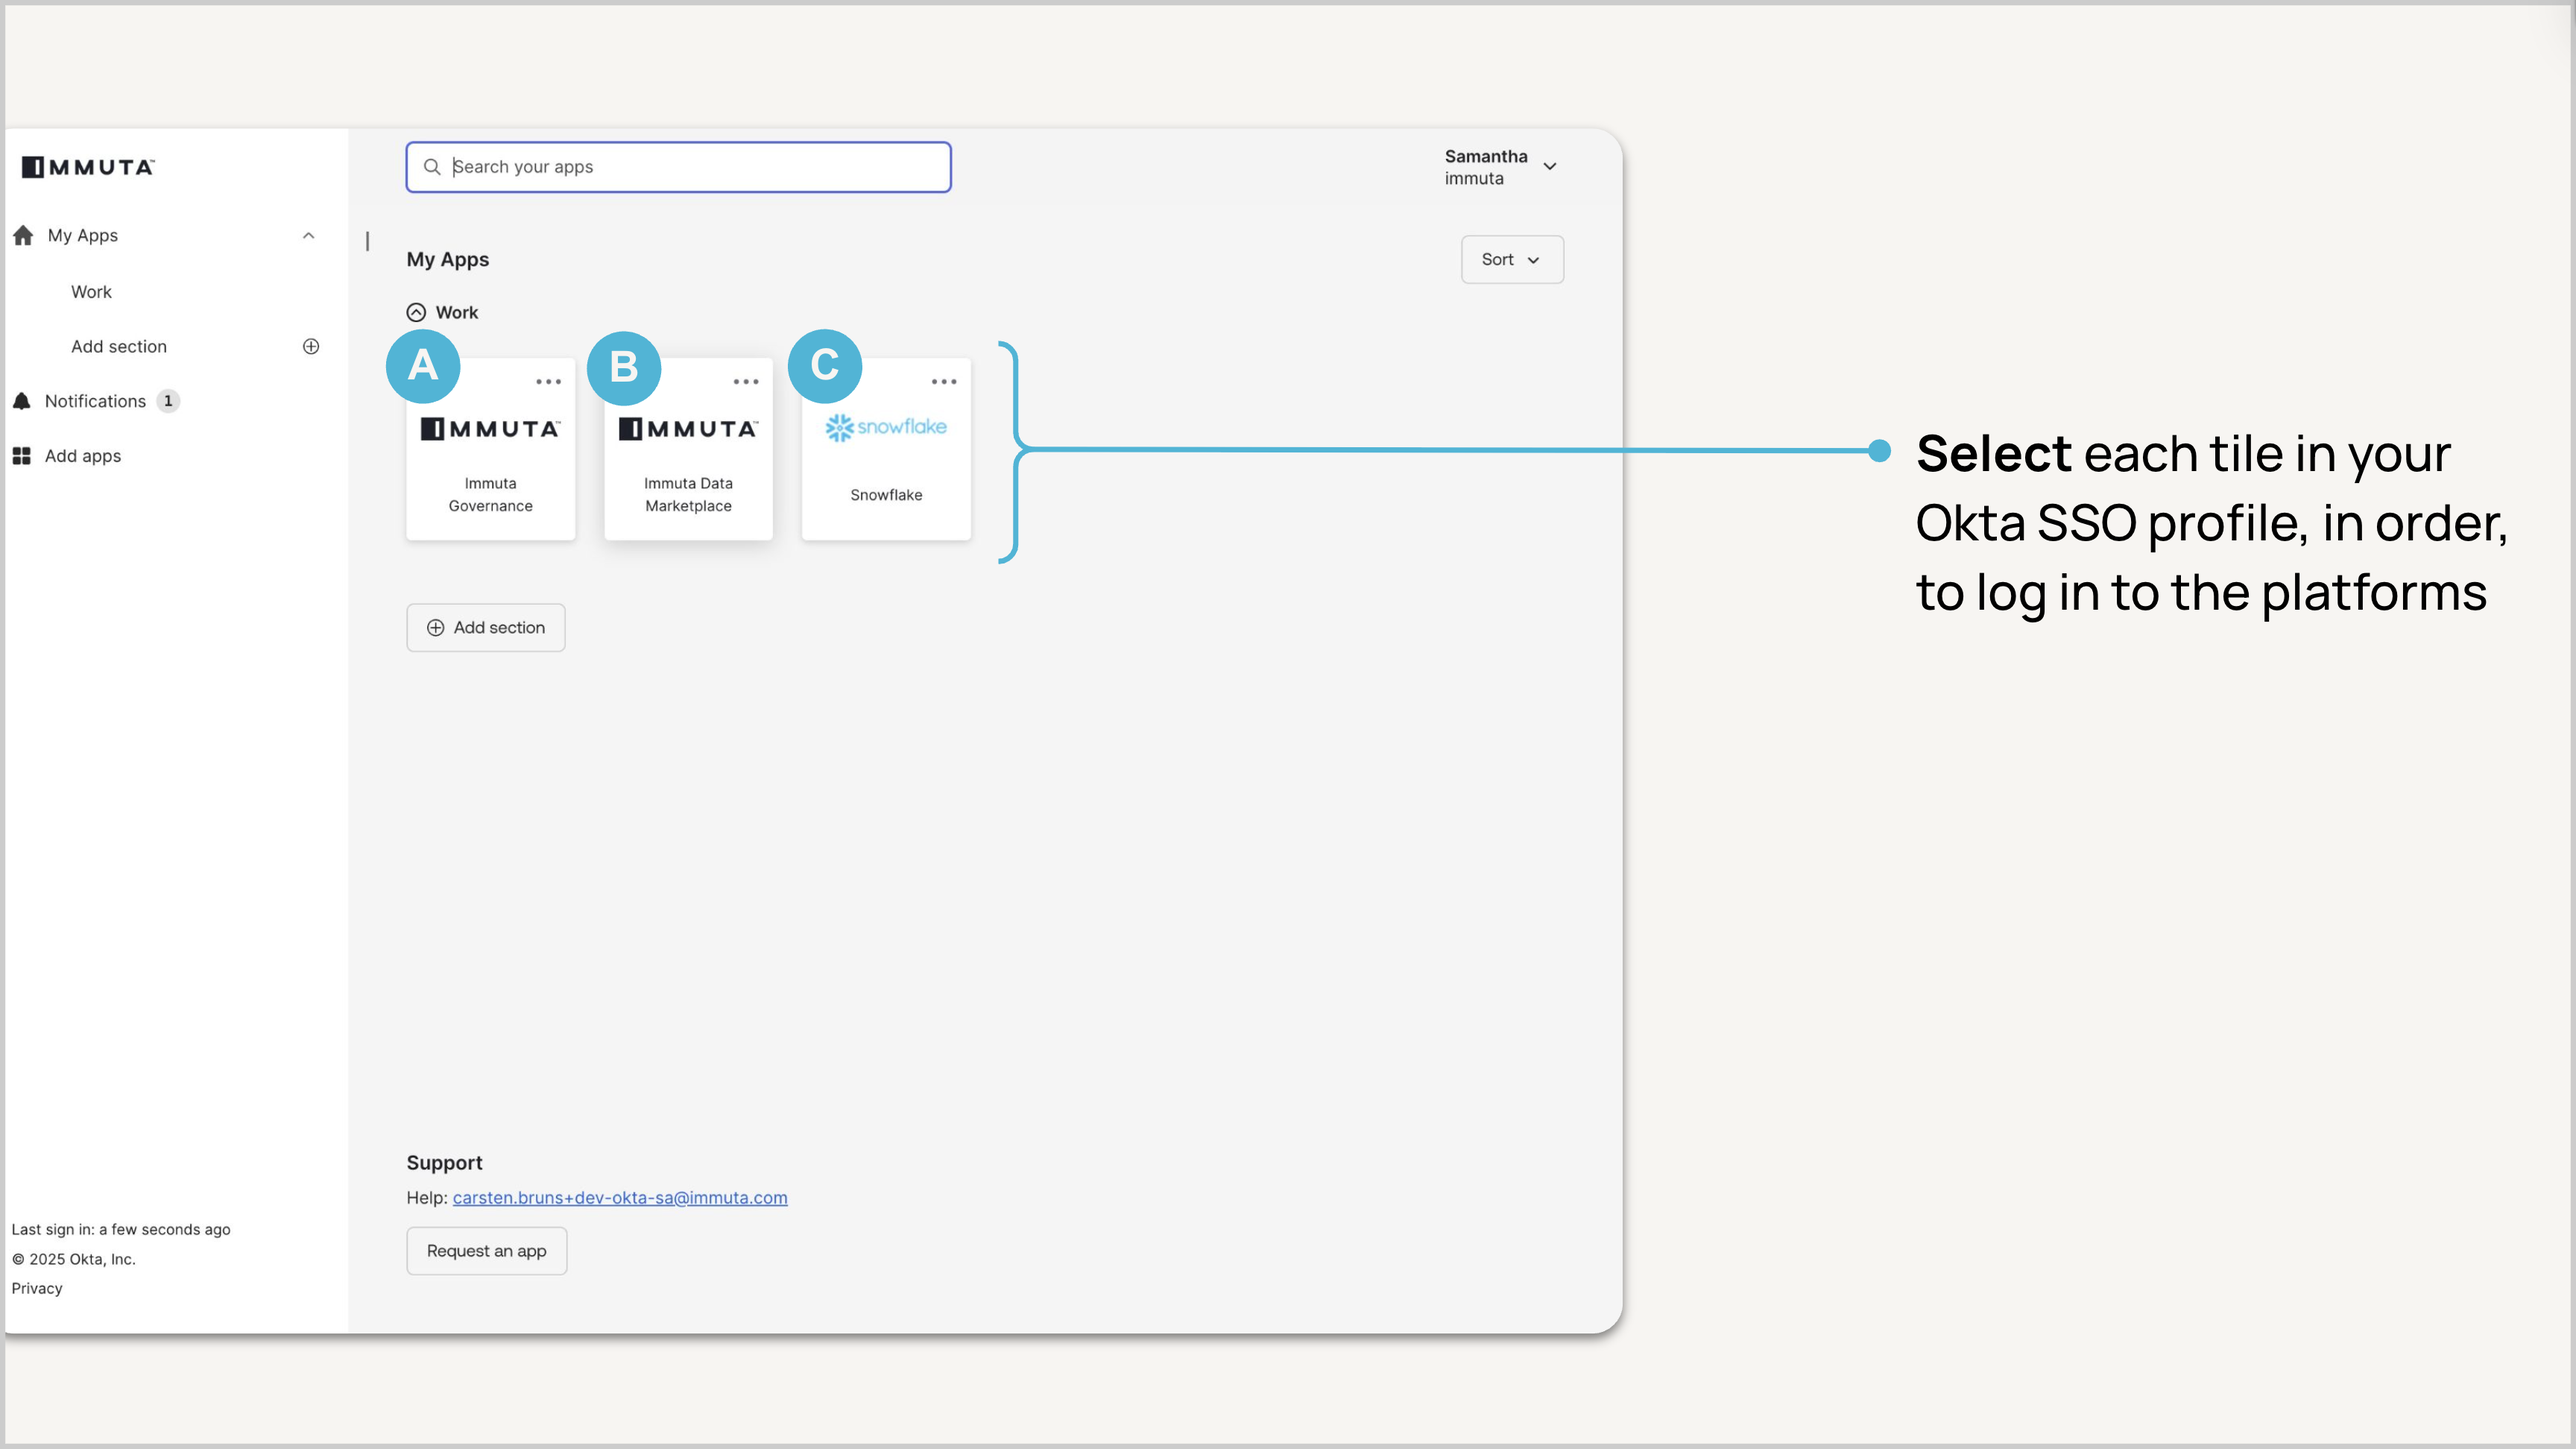
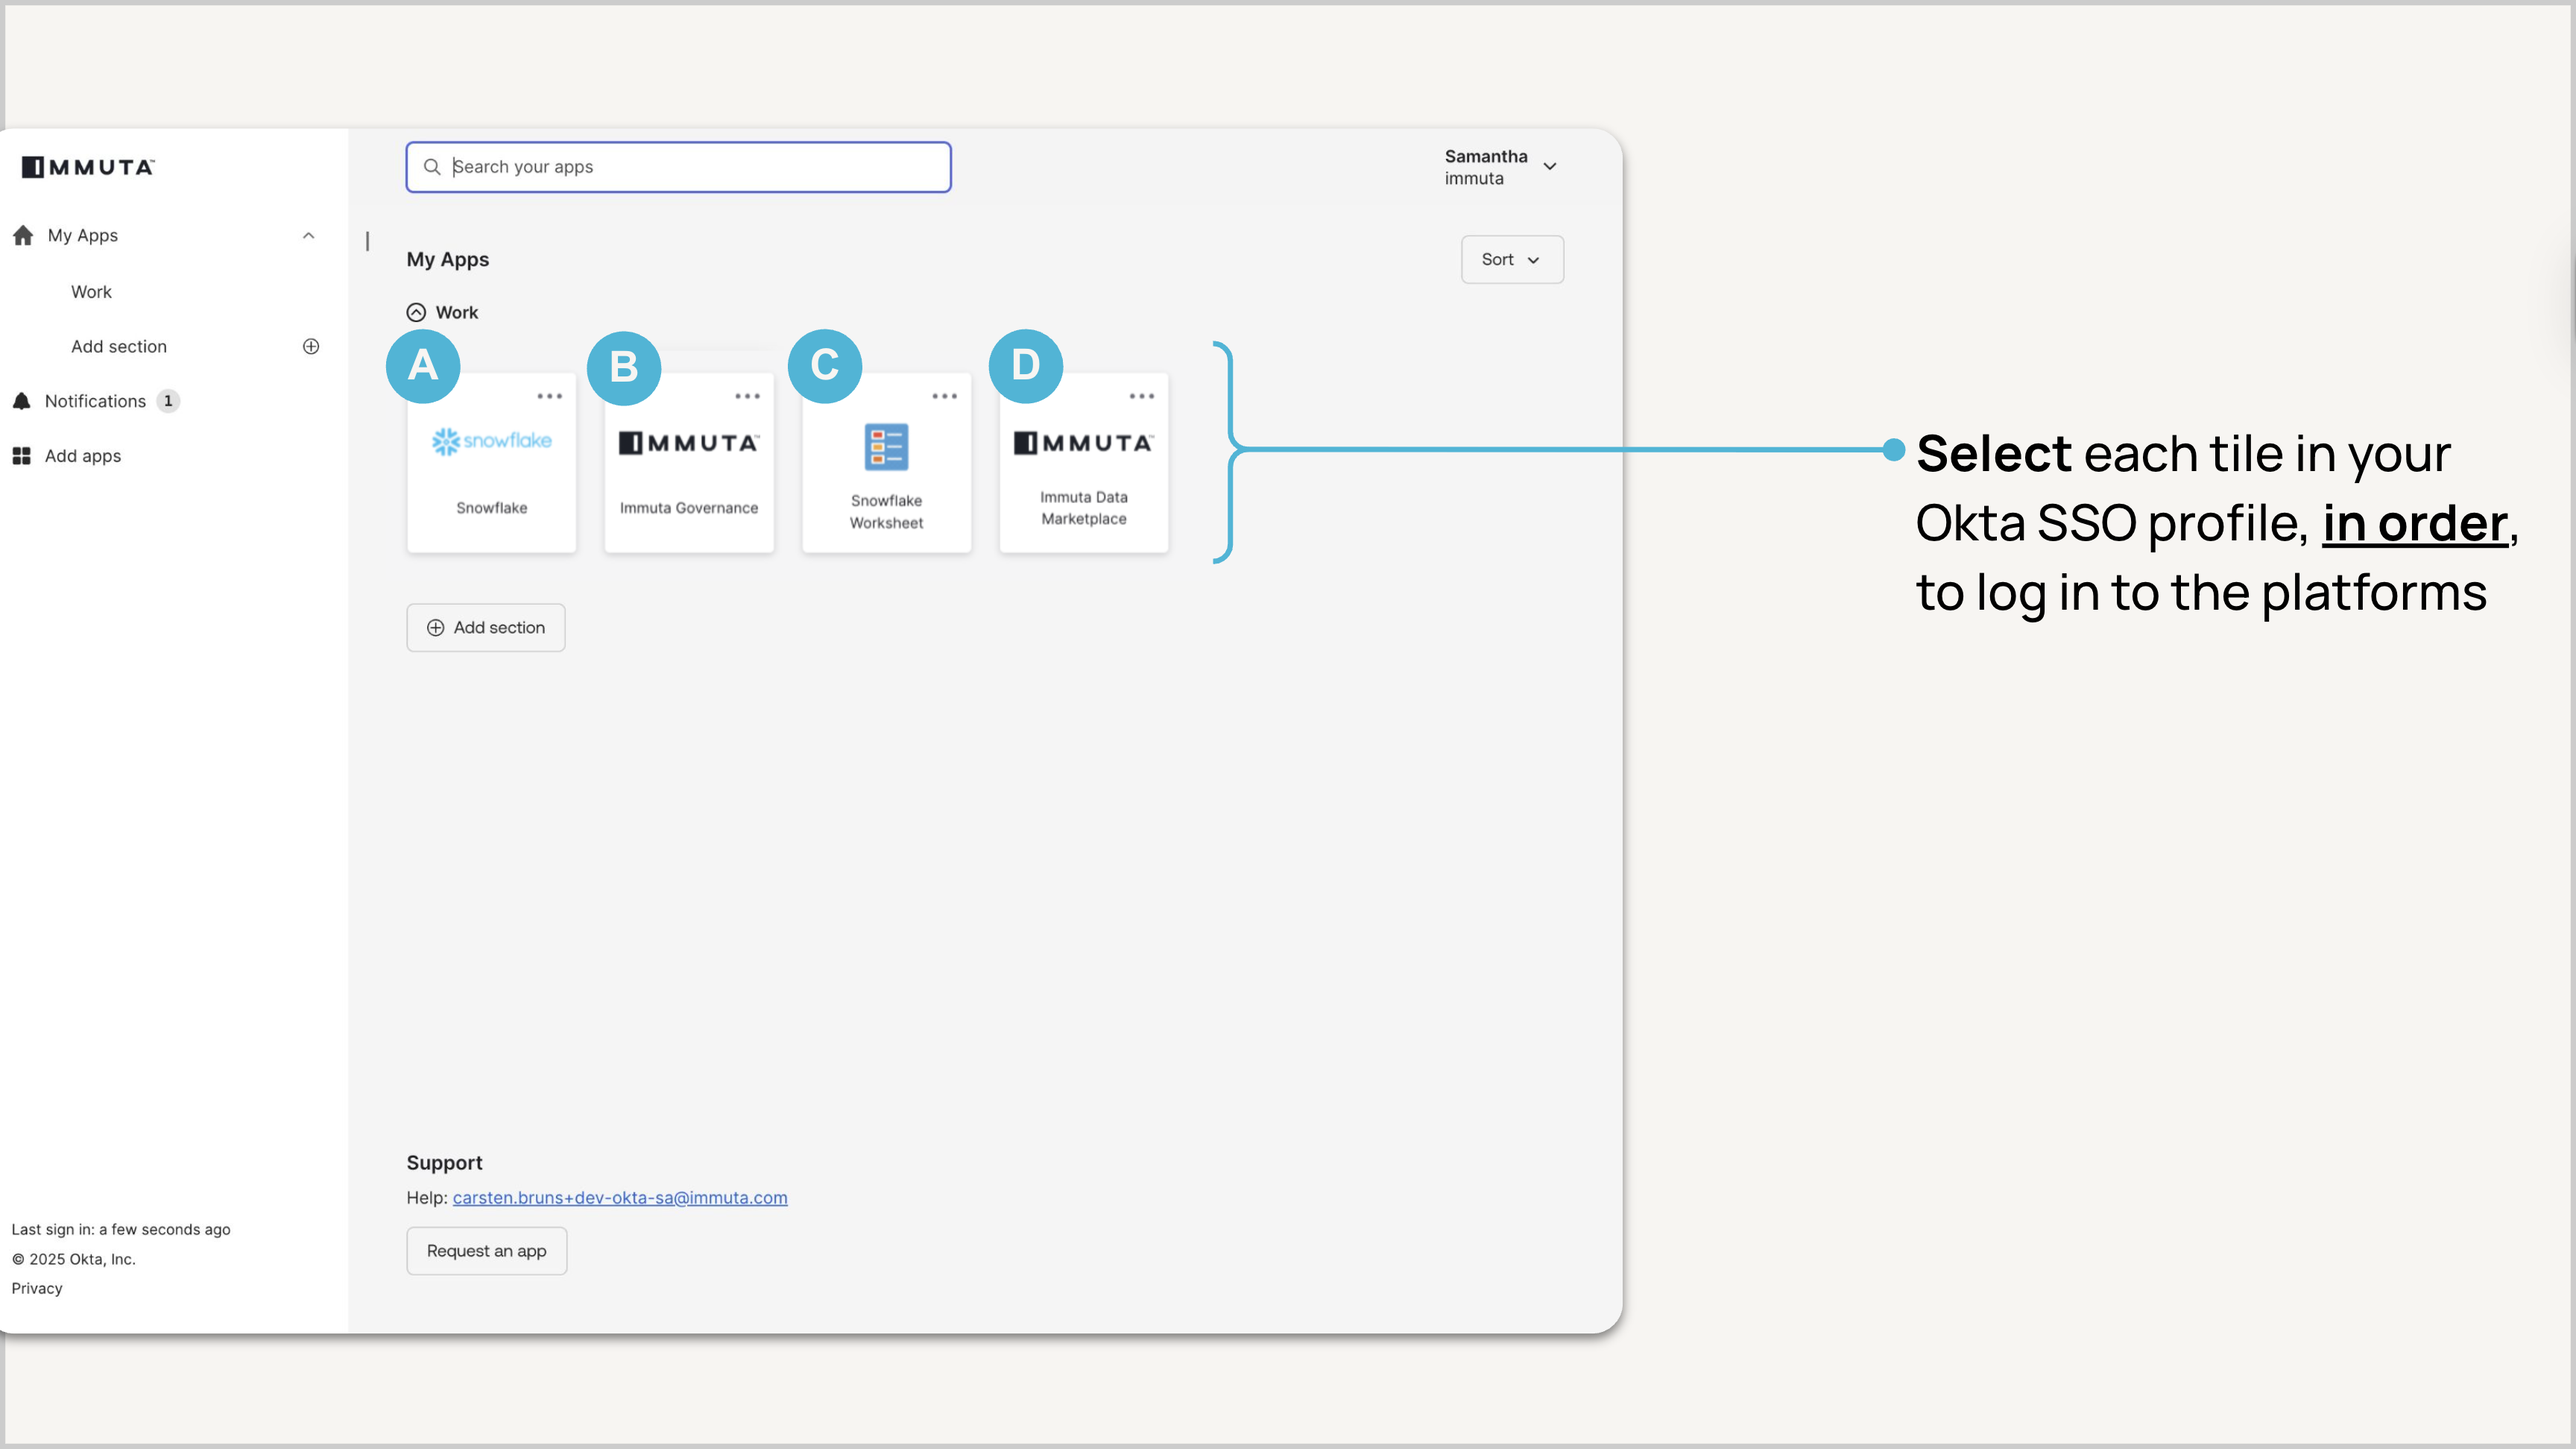
edits to screenshots

diff --git a/site/sfguides/src/simplify_and_accelerate_data_access_provisioning_with_immuta_and_snowflake/simplify_and_accelerate_data_access_provisioning_with_immuta_and_snowflake.md b/site/sfguides/src/simplify_and_accelerate_data_access_provisioning_with_immuta_and_snowflake/simplify_and_accelerate_data_access_provisioning_with_immuta_and_snowflake.md
@@ -1,6 +1,6 @@
 author: Paul Myres, Kevin Crawford
 id: simplify_and_accelerate_data_access_provisioning_with_immuta_and_snowflake
-summary: This is a sample Snowflake Guide
+summary: In this guide, you’ll learn how to securely provision data access using **Immuta** and **Snowflake**.
 categories: Getting-Started, datagovernance, Ai
 environments: web
 status: Published 
@@ -16,7 +16,7 @@ In this guide, you’ll learn how to securely provision data access using **Immu
 
 The scenario centers on a **healthcare** dataset containing **patient and provider encounters** across a network of facilities. You’ll use an HLS dataset to simulate a federated enterprise environment and experience how Immuta helps organizations streamline access while maintaining compliance and accelerating time to data.
 
-By the end of the guide, you’ll have published a secure data product, enforced dynamic policies, and accessed governed data.
+By the end of this guide, you’ll have published a secure data product, enforced dynamic policies, and accessed governed data.
 
 ### Introduction to Immuta
 
@@ -26,7 +26,7 @@ AI and other technologies have created a surge in data demand, with 10–100x mo
 Despite the push to make data more accessible, most organizations still rely on a complex, manual process involving multiple teams. From request to access, it often takes over two months—slowing down insights and frustrating users. This model no longer scales with modern data demands.
 ![people](assets/people.png)
 
-Immuta simplifies and secures the data access process with a single platform that combines a governed data marketplace with automated policy enforcement. Data consumers get fast, compliant access, while stewards, governors, and product owners work within clear, auditable workflows
+Immuta simplifies and secures the data access process with a single platform that combines a governed data marketplace with automated policy enforcement. Data consumers get fast, compliant access, while stewards, governors, and product owners work within clear, auditable workflows.
 ![dg](assets/dg.png)
 
 ### Prerequisites
@@ -39,6 +39,7 @@ Immuta simplifies and secures the data access process with a single platform tha
 * How to publish trusted, compliant data products to the Immuta Marketplace so users can discover and request the data they need without creating bottlenecks
 
 ### What You'll Need 
+* Laptop
 * Access to Immuta’s Workshop Okta SSO (provided)  
 * Access to the shared Snowflake worksheet (provided)
 
@@ -61,7 +62,7 @@ You’ve been provisioned with an **Okta profile** that will allow you to seamle
 
 In Snowflake, you’re provisioned as a data owner over a single schema within a domain-scoped database. Throughout this workshop, you’ll create fine-grained access controls to govern this data and publish a secure data product that others can request through the Immuta Marketplace.
 
-**Note:** Be sure to use the shared Snowflake worksheet provided for the hands-on exercises.
+Be sure to use the **shared Snowflake worksheet** provided in Okta for the hands-on exercises.
 
 ### What you’ll do
 
@@ -69,18 +70,35 @@ In Snowflake, you’re provisioned as a data owner over a single schema within a
 * Launch each application:  
   * Immuta Governance  
   * Immuta Marketplace  
-  * Snowflake Workshop Account
+  * Snowflake Workshop Account and shared Snowflake worksheet 
 * Review the data currently available to your user
 
 ### Follow Along in Okta
-![login](assets/oktalogin.png)
+#### 2.1 ![login](assets/oktalogin.png)
+> aside negative
+> 
+>  Do **not** sign in with Okta FastPass.
 
-![profile](assets/oktaprofile.png)
+#### 2.2 ![profile](assets/oktaprofile.png)
 
 ### Follow Along in Snowflake
-![duplicate](assets/duplicate.png)
+#### 2.3 ![duplicate](assets/duplicate.png)
 
-![checkdata](assets/checkdata.png)
+#### 2.4 ![checkdata](assets/checkdata.png)
+
+### FAQ
+**What should I do if I'm denied access to Okta SSO?**
+* Do not use Okta FastPass to sign in.
+* Make sure the credentials you entered exactly match those provided to you.
+
+**Where can I find the shared Snowflake worksheet?**
+* Open it from your Okta SSO Profile.
+
+**When I open the shared Snowflake worksheet, it prompts me to sign in. What should I do?**
+* Ensure you opened the applications in the correct order: sign in to Snowflake first, then open the worksheet from your Okta SSO profile. If done in this order, you should already be signed in when the worksheet opens.
+
+**What should I do if I can't type in the shared Snowflake worksheet?**
+* Duplicate the worksheet (see steps above). 
 
 <!-- ------------------------ -->
 ## Data Consumer Experience
@@ -92,23 +110,23 @@ Duration: 15
 
 ### What you’ll do 
 
-* You are **Connie the consumer** who is an analyst that has been tasked to review and provide insights on facility performance based on patient encounters.  
+* You are **Connie the Consumer** who is an analyst that has been tasked to review and provide insights on facility performance based on patient encounters.  
 
 * You need to find a data product that will fit your analytical needs and get access quickly to provide insights within a short deadline. 
 
 * We’ll start by looking at the **Immuta Data Marketplace** to see what data products are available that may fit your business needs.
 
 ### Follow Along in Immuta Marketplace: Request Access to a Data Product
-![selectproduct](assets/selectproduct.png)
+#### 3.1 ![selectproduct](assets/selectproduct.png)
 
-![request](assets/request.png)
+#### 3.2 ![request](assets/request.png)
 
-![form](assets/form.png)
+#### 3.3 ![form](assets/form.png)
 
 ### Follow Along in Snowflake
-![businessquery](assets/businessquery.png)
+#### 3.4 ![businessquery](assets/businessquery.png)
 
-![selectmask](assets/selectmask.png)
+#### 3.5 ![selectmask](assets/selectmask.png)
 
 <!-- ------------------------ -->
 ## Data Governor Experience
@@ -120,7 +138,7 @@ Domains in Immuta enable decentralized, federated governance by giving business 
 
 ![domains](assets/domains.png)
 
-Subscription policies determine who can see a dataset, while data policies govern how sensitive information is masked or filtered based on context, ensuring secure, compliant access. Immuta policies offer fine-grained control over data access at every level: table, column, row, and even individual cells.
+Subscription policies determine who can see a dataset, while data policies govern how sensitive information is masked or filtered based on context. Together, they ensure secure, compliant access. Immuta policies offer fine-grained control over data access at every level: table, column, row, and even individual cells.
 
 ![subpolicy](assets/subpolicy.png)
 
@@ -136,18 +154,18 @@ Subscription policies determine who can see a dataset, while data policies gover
 * Then you’ll create a domain specific data policy within the Immuta Governance application using the metadata tags available to secure location information.
 
 ### Follow Along in Immuta Governance: Review Metadata
-![finddomain](assets/finddomain.png)
+#### 4.1 ![finddomain](assets/finddomain.png)
 
-![datasource](assets/datasource.png)
+#### 4.2 ![datasource](assets/datasource.png)
 
-![dictionary](assets/dictionary.png)
+#### 4.3 ![dictionary](assets/dictionary.png)
 
 
 ### Follow Along in Immuta Governance: Create a Data Policy
-![buildmask](assets/buildmask.png)
+#### 4.4 ![buildmask](assets/buildmask.png)
 
 ### Follow Along in Snowflake
-![domainmask](assets/domainmask.png)
+#### 4.5 ![domainmask](assets/domainmask.png)
 
 <!-- ------------------------ -->
 ## Data Product Owner Experience
@@ -165,20 +183,20 @@ Duration: 15
 * Let's start by defining the data product in the product owner interface and create the access workflow for consumption.
 
 ### Follow Along in Immuta Marketplace: Publish a Data Product
-![publish](assets/publish.png)
+#### 5.1 ![publish](assets/publish.png)
 
-![publishwf1](assets/publishwf1.png)
+#### 5.2 ![publishwf1](assets/publishwf1.png)
 
-![publishwf2](assets/publishwf2.png)
+#### 5.3 ![publishwf2](assets/publishwf2.png)
 
-![publishwf3](assets/publishwf3.png)
+#### 5.4 ![publishwf3](assets/publishwf3.png)
 
-![publishwf4](assets/publishwf4.png)
+#### 5.5 ![publishwf4](assets/publishwf4.png)
 <!-- ------------------------ -->
 ## Conclusion And Resources
 Duration: 5
 
-In this lab, you stepped into the roles of Data Governor, Data Product Owner, and Data Consumer to experience how Immuta and Snowflake work together to simplify and scale secure data access. You discovered how metadata-driven policies, automated workflows, and the Immuta Marketplace reduce friction, accelerate time-to-data, and support compliance without sacrificing control.
+In this lab, you stepped into the roles of **Data Consumer, Data Governor, and Data Product Owner** to experience how Immuta and Snowflake work together to simplify and scale secure data access. You discovered how metadata-driven policies, automated workflows, and the Immuta Marketplace reduce friction, accelerate time-to-data, and support compliance without sacrificing control.
 
 ### What You Learned
 * How Immuta’s native integration with Snowflake enables secure, scalable data access
